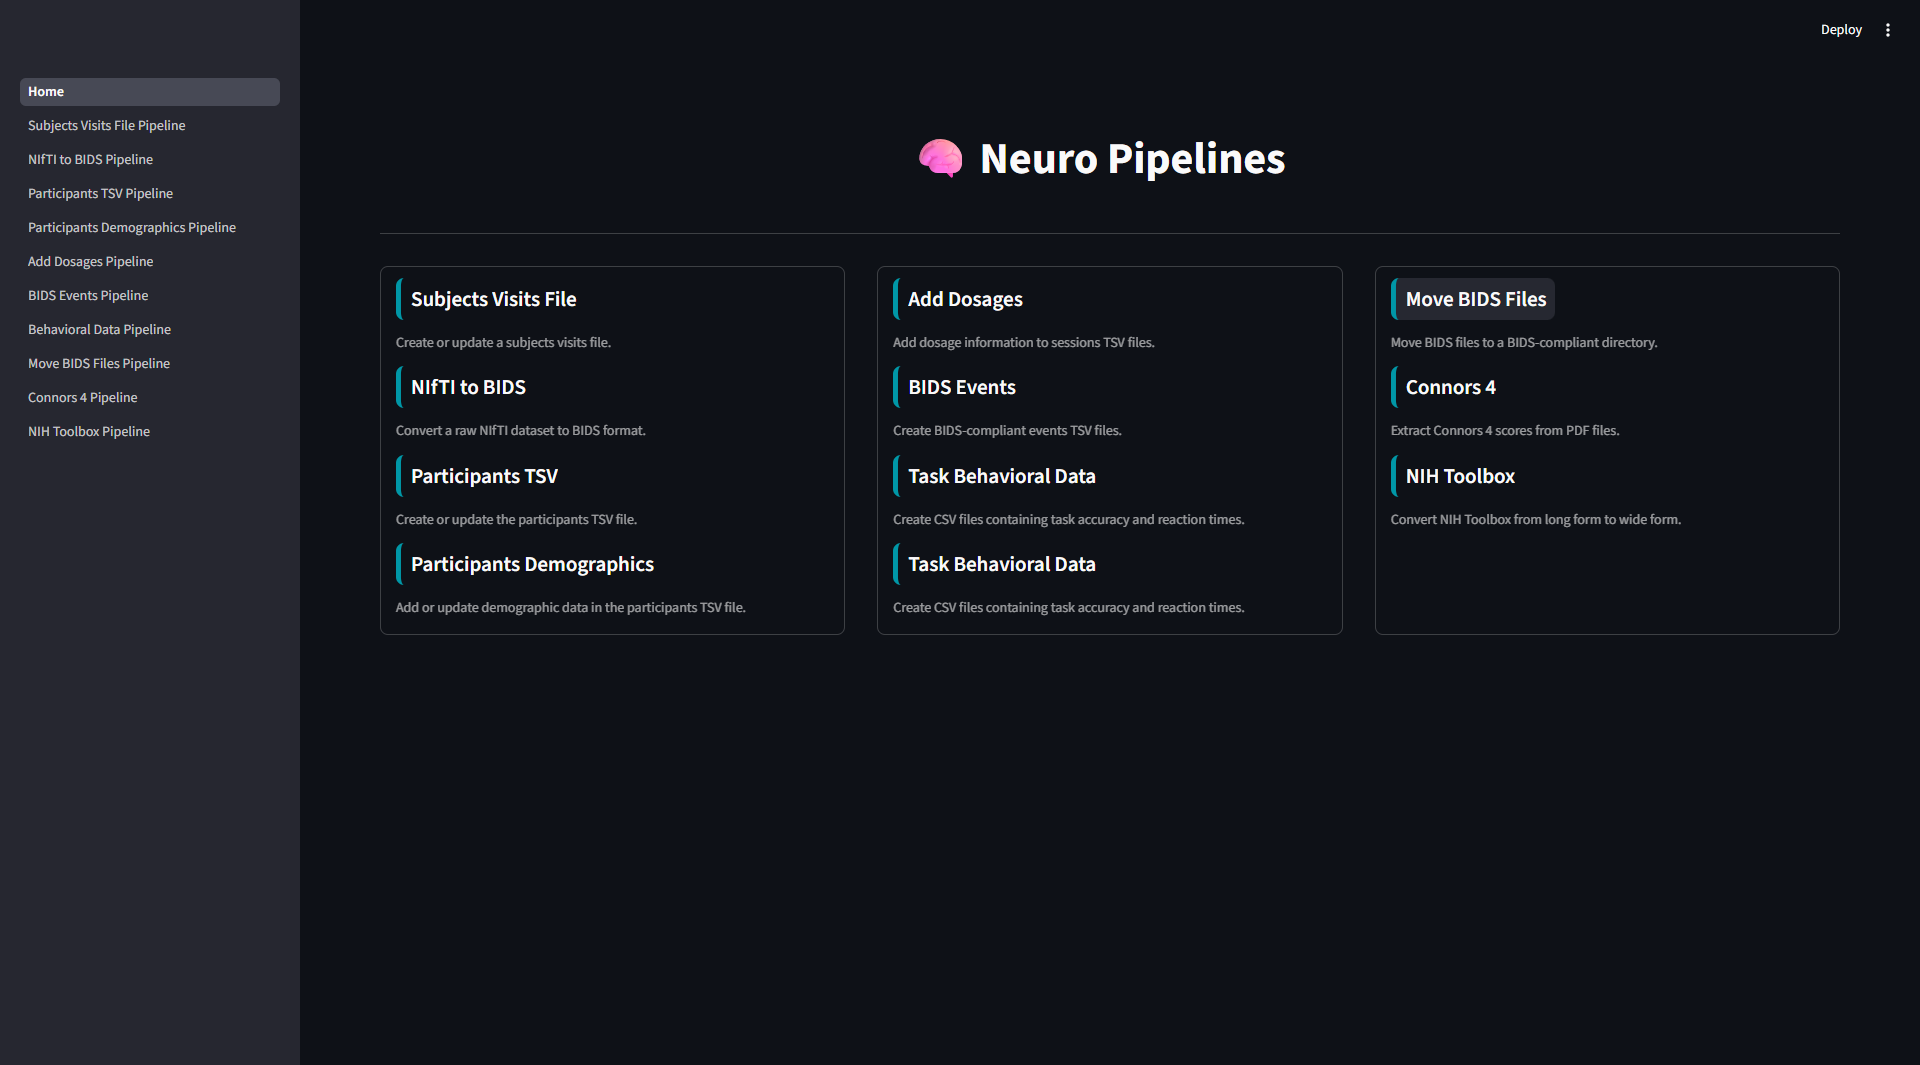
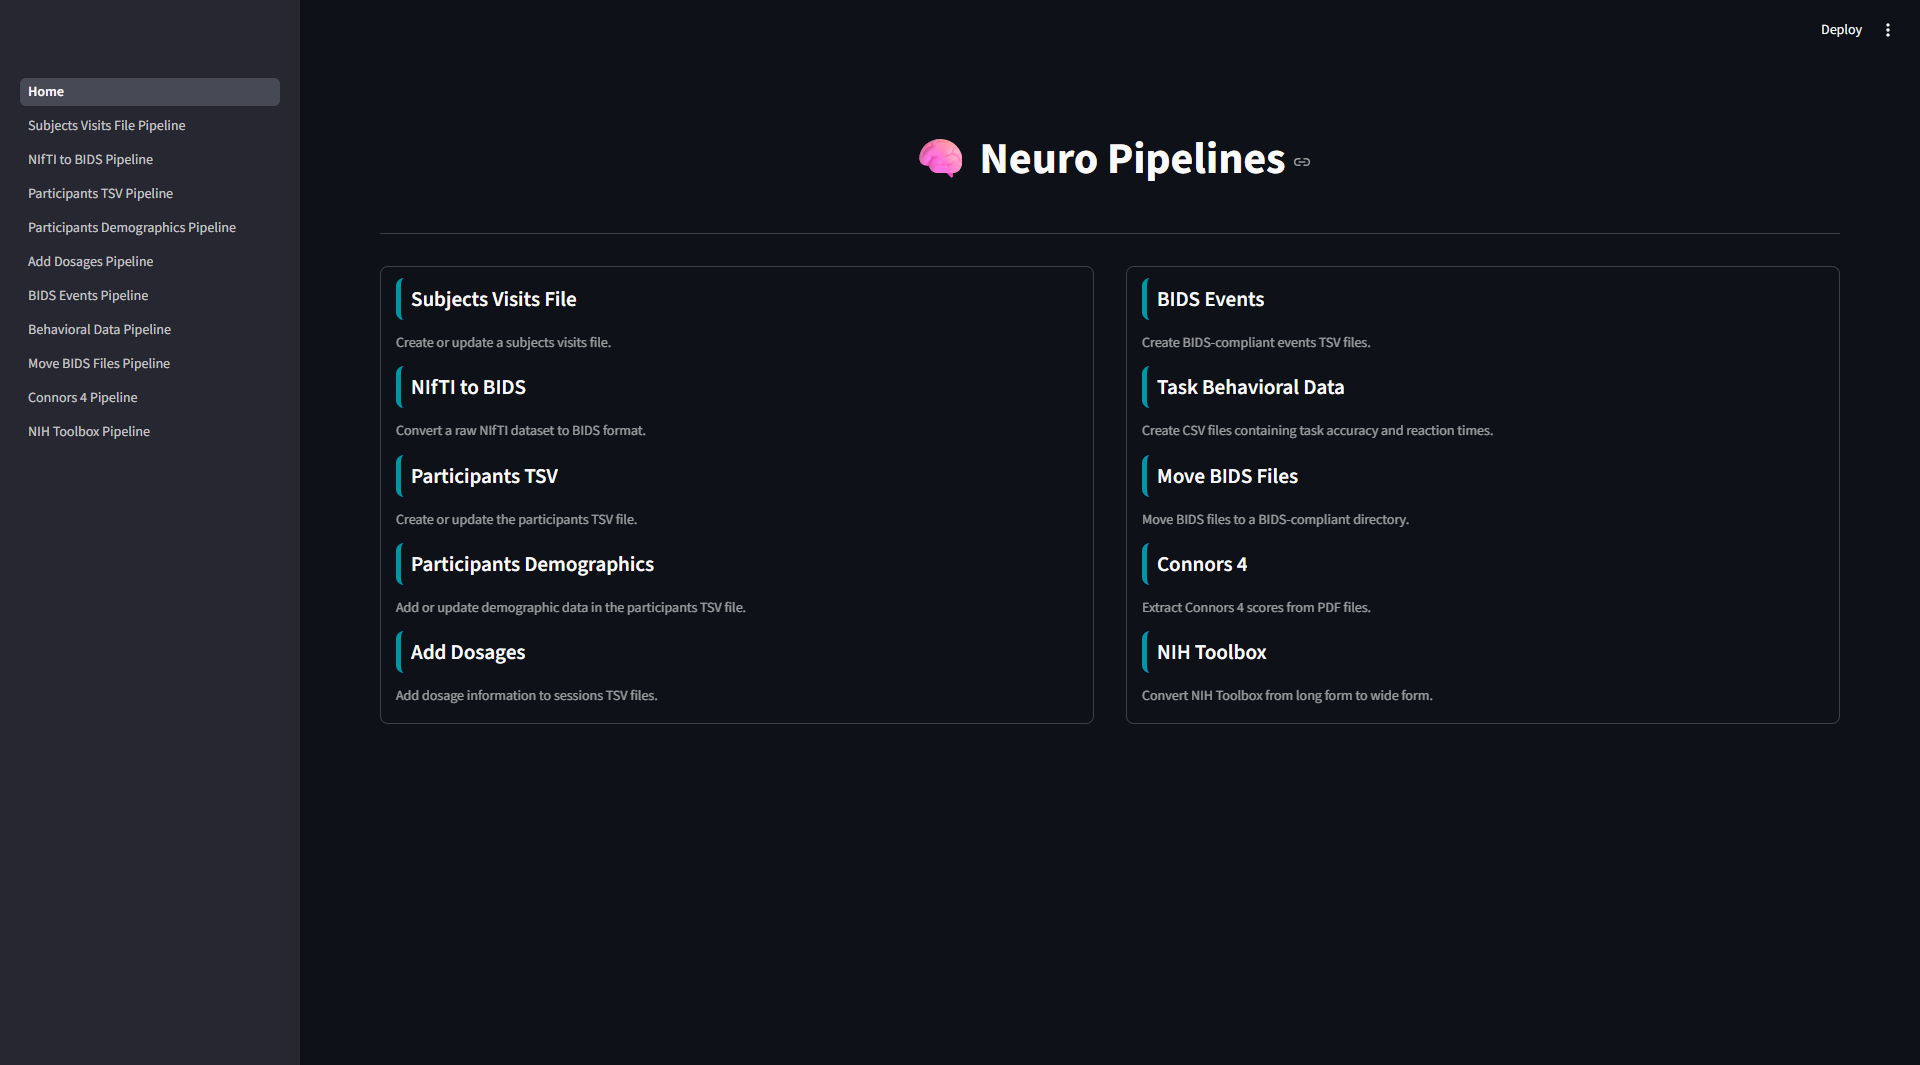
Fix repeat on homepage

diff --git a/_homepage.py b/_homepage.py
@@ -23,7 +23,7 @@ st.title("\U0001f9e0 Neuro Pipelines", text_alignment="center")
 
 st.divider()
 
-col1, col2, col3 = st.columns(3, border=True, gap="medium")
+col1, col2 = st.columns(2, border=True, gap="medium")
 
 with col1:
     st.page_link(
@@ -50,23 +50,18 @@ with col1:
     )
     st.caption(" Add or update demographic data in the participants TSV file.")
 
-with col2:
     st.page_link(
         "bids_conversion_pipeline/streamlit/add_dosages_app.py", label="**Add Dosages**"
     )
     st.caption("Add dosage information to sessions TSV files.")
 
+with col2:
     st.page_link("events/bids_events_app.py", label="**BIDS Events**")
     st.caption("Create BIDS-compliant events TSV files.")
 
     st.page_link("events/behavioral_data_app.py", label="**Task Behavioral Data**")
     st.caption("Create CSV files containing task accuracy and reaction times.")
 
-    st.page_link("events/behavioral_data_app.py", label="**Task Behavioral Data**")
-    st.caption("Create CSV files containing task accuracy and reaction times.")
-
-
-with col3:
     st.page_link("move_files/move_files_app.py", label="**Move BIDS Files**")
     st.caption("Move BIDS files to a BIDS-compliant directory.")
 
